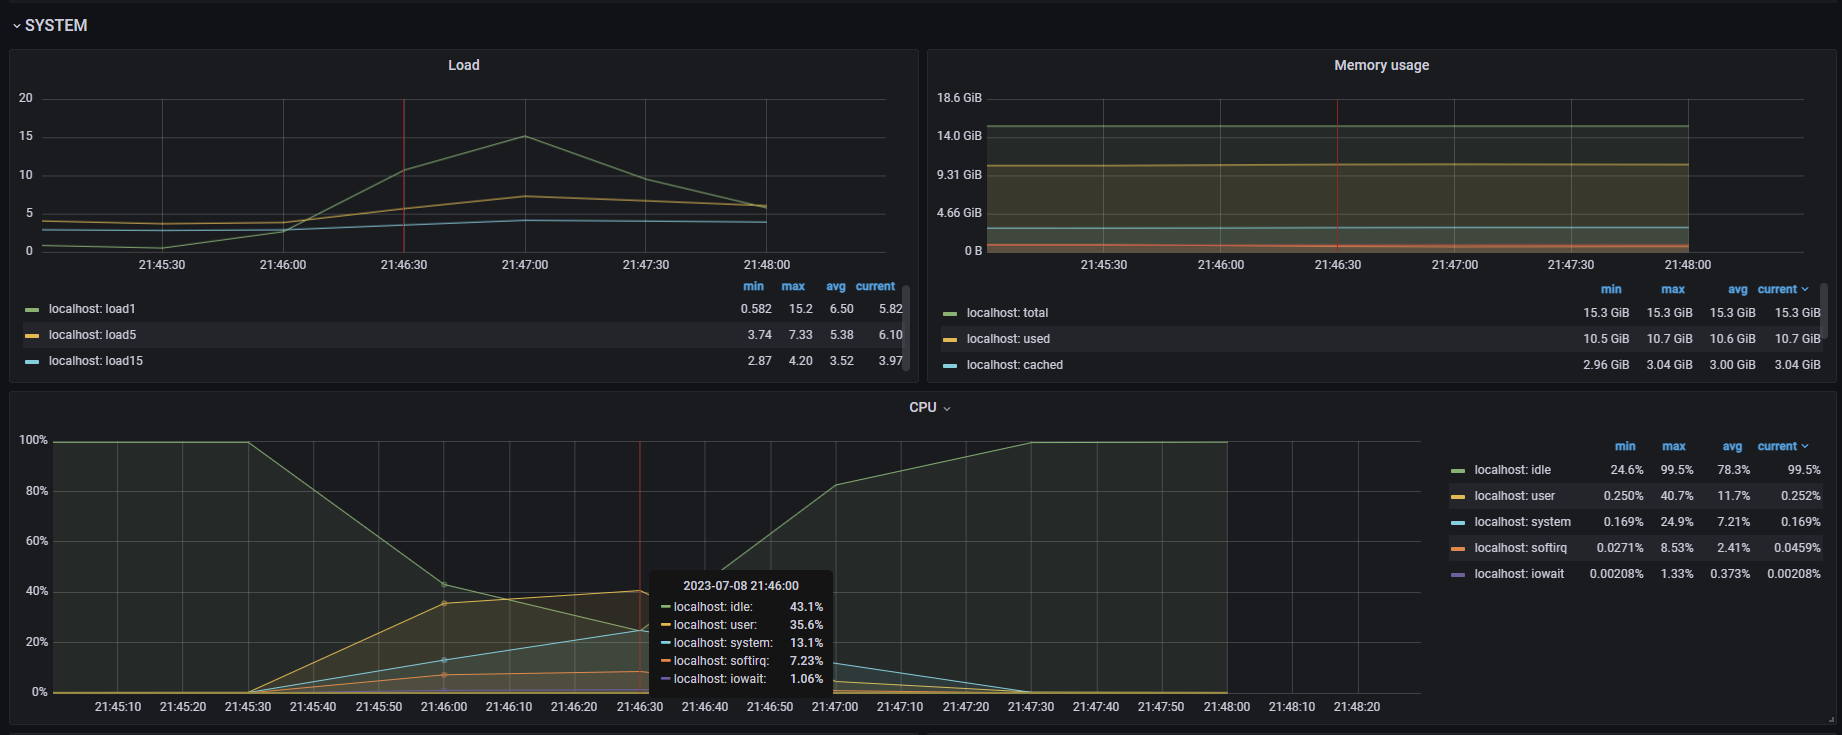
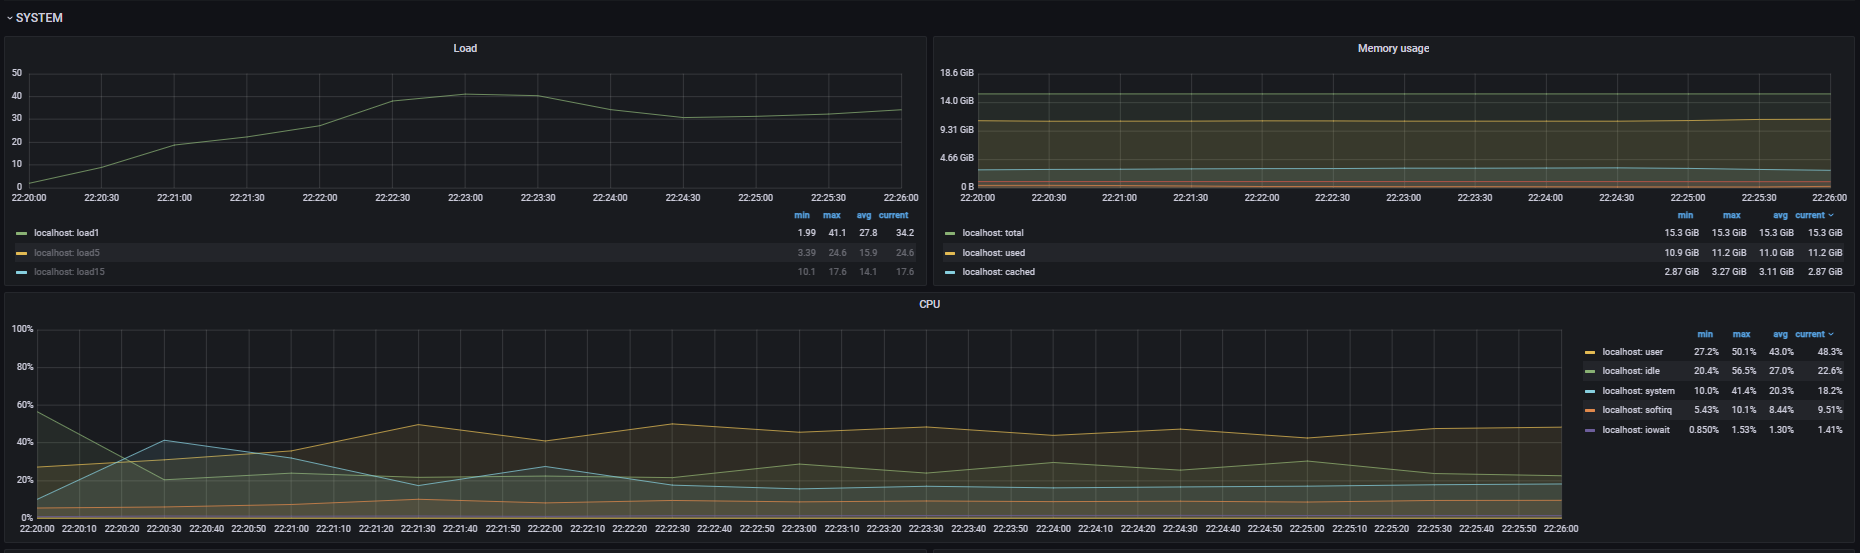
Update script and results

diff --git a/README.md b/README.md
@@ -3,9 +3,9 @@ Start the app and monitoring:
 .\up.ps1
 ```
 
-Run load testing:
+Run load testing with different concurrency levels (10, 25, 50, 100, 200, 300, 400, 500), 1 minute each:
 ```powershell
-.\test.ps1 50
+.\test.ps1
 ```
 
 Turn off the app and monitoring:
@@ -13,8 +13,9 @@ Turn off the app and monitoring:
 .\down.ps1
 ```
 
-## Grafana system metrics
-![Grafana during load](screenshots/grafana-system.png)
+## Grafana system metrics (load increasing from 50 to 500)
+![Grafana during load (LA, CPU, RAM)](screenshots/grafana-system.png)
+![Grafana during load (DISK)](screenshots/grafana-disk.png)
 
 ## Grafana Docker metrics
 ![Grafana during load (DOCKER)](screenshots/grafana-docker.png)
@@ -24,6 +25,9 @@ Turn off the app and monitoring:
 
 ## Grafana Mongo metrics
 ![Grafana during load (Mongo)](screenshots/grafana-mongo.png)
+
+## Grafana NGINX metrics
+![Grafana during load (Mongo)](screenshots/grafana-nginx.png)
 
 ## Load test results
 
@@ -160,3 +164,15 @@ Shortest transaction:           0.00
 Throughput increases with concurrency increase. Increasing concurrency beyond 100 increases response time and keeps the throughput on the same level. The system consistently maintains 100% availability despite concurrency increase.
 
 Even under the highest concurrency, idle CPU is above 20%, and used memory doesn't increase above 10.7 GB out of 15.3 total memory. 
+
+It looks like there is a limit of open connections to Mongo - it never increases above 105. `MongoDefaults.MaxConnectionPoolSize` is equal to 100 for .NET MongoClient. It seems to be the bottleneck of the system.
+
+Another bottleneck could be the number of threads in Elastic Search - it is always around 100 during the load. I tried running the same test with elastic search GET URL only and it decreased idle CPU to be between 12% to 17% and Elastic CPU usage to ~50%. There is a setting here `http://localhost:19200/_nodes/thread_pool?pretty` that limits the number of search requests to 100:
+
+```
+"search_throttled" : {
+    "type" : "fixed_auto_queue_size",
+    "size" : 1,
+    "queue_size" : 100
+}
+```
